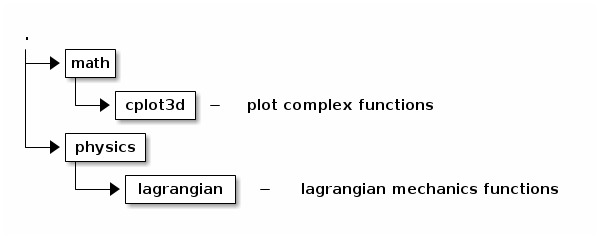
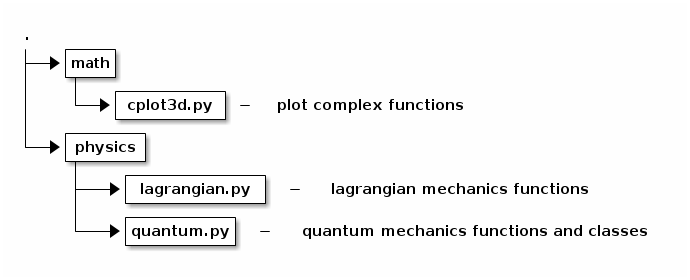
quantum added

Changed region(s): [[0.03, 0.1471, 0.96, 0.9118], [0.39, 0.3529, 0.72, 0.4706], [0.48, 0.6471, 0.87, 0.7059]]

diff --git a/physics/quantum.py b/physics/quantum.py
@@ -1,0 +1,359 @@
+# -*- coding: utf-8 -*-
+"""
+Created on Thu Oct 24 19:56:31 2013
+
+@author: edo
+"""
+
+from sympy import Add, Mul, Pow, S, E, I, sin, cos, exp
+
+from sympy.core.trace import Tr
+from sympy.physics.quantum.anticommutator import AntiCommutator
+from sympy.physics.quantum.commutator import Commutator
+from sympy.physics.quantum.density import Density, entropy, fidelity
+from sympy.physics.quantum.state import Ket, Bra, TimeDepKet, State, KetBase, BraBase, Wavefunction
+from sympy.physics.quantum.qubit import Qubit
+from sympy.physics.quantum.qapply import qapply
+from sympy.physics.quantum.gate import HadamardGate
+from sympy.physics.quantum.represent import represent
+from sympy.physics.quantum.dagger import Dagger
+from sympy.physics.quantum.cartesian import XKet, PxKet, PxOp, XOp
+from sympy.physics.quantum.spin import JzKet, Jz
+from sympy.physics.quantum.innerproduct import InnerProduct
+from sympy.physics.quantum.operator import OuterProduct, Operator, HermitianOperator, UnitaryOperator, DifferentialOperator
+from sympy.physics.quantum.operatorset import operators_to_state
+from sympy.physics.quantum.tensorproduct import TensorProduct
+
+
+
+
+
+class Infix:
+    """
+    Definition of an Infix operator.
+
+    Examples
+    ========
+
+    >>> x = Infix(lambda x,y: x*y)
+    >>> 3 |x| 5
+    15
+    """
+    def __init__(self, function):
+        self.function = function
+    def __ror__(self, other):
+        return Infix(lambda x, self=self, other=other: self.function(other, x))
+    def __or__(self, other):
+        return self.function(other)
+    def __rlshift__(self, other):
+        return Infix(lambda x, self=self, other=other: self.function(other, x))
+    def __rshift__(self, other):
+        return self.function(other)
+    def __call__(self, value1, value2):
+        return self.function(value1, value2)
+
+# Tensor product infix operator for quantum bites
+ox = Infix(TensorProduct)
+
+
+class IdempotentOperator(Operator):
+    """
+    Idempotent operator class.
+
+    Examples
+    ========
+
+    >>> from sympy import *
+    >>> A = symbols('A', cls=IdempotentOperator)
+    >>> A**2
+    A
+    >>> A**100
+    A
+    """
+    is_idempotent = True
+    def _eval_inverse(self):
+        raise ZeroDivisionError('Idempotent matrix has no inverse.')
+
+    def _eval_power(self, exp):
+        if exp < 0:
+            raise ZeroDivisionError('Idempotent matrix has no inverse.')
+        elif exp == 0:
+            return 1
+        else:
+            return self
+        return self
+
+
+def Qperm(n, f, *param):
+    dim = 2**n
+    _Qperm_ = 0
+    param = [""] + list(param)
+    for k in range(dim):
+        bits = ("%0" + str(n) + "d") % int(bin(k)[2:])
+        param[0] = bits        
+        pbits = f(*param)
+        _Qperm_ += OuterProduct(Qubit(bits), Qubit(pbits).dual)
+    return _Qperm_
+
+
+def shift(subject, direction = 1):
+    """
+    Shift 'subject'. 'direction' = 1 right shift, 'direction' = -1 left shift.
+    """
+    if direction == 1:
+        tmp = subject[-1]
+        subject = tmp + subject[:-1]
+    elif direction == -1:
+        tmp = subject[0]
+        subject = subject[1:] + tmp
+    return subject
+
+
+def inter(subject, indexes, direction = 1):
+    """
+    Shift only 'indexes' positions.
+    """
+    indexes.sort()
+    while (indexes[0] < 0):
+        indexes.append(indexes[0])
+        del indexes[0]
+    selection = ""
+    for i in indexes:
+        selection += subject[i]
+    selection = shift(selection, direction)
+    result = subject[:indexes[0]]
+    for i in range(len(indexes)-1):
+        result += selection[i] + subject[indexes[i] + 1:indexes[i+1]]
+    result += selection[-1]
+    if indexes[-1] != -1:
+        result += subject[indexes[-1] + 1:]
+    return result
+
+
+def Qident(n):
+    """
+    Quantum identity operator over 'n' qubits.
+    """
+    dim = 2**n
+    result = 0
+    for i in range(dim):
+        bits = ("%0" + str(n) + "d") % int(bin(i)[2:])
+        result += OuterProduct(Qubit(bits), Qubit(bits).dual)
+    return result
+
+
+def Psym(n):
+    """
+    Quantum symmetric operator over 'n' qubits.
+    """
+    dim = 2**n
+    result = 0
+    for i in range(dim):
+        ibits = ("%0" + str(n) + "d") % int(bin(i)[2:])
+        result += OuterProduct(Qubit(ibits*2), Qubit(ibits*2).dual)
+        for j in range(i):
+            jbits = ("%0" + str(n) + "d") % int(bin(j)[2:])
+            result += OuterProduct(Qubit(ibits+jbits), Qubit(ibits+jbits).dual)/2
+            result += OuterProduct(Qubit(jbits+ibits), Qubit(jbits+ibits).dual)/2
+            result += OuterProduct(Qubit(ibits+jbits), Qubit(jbits+ibits).dual)/2
+            result += OuterProduct(Qubit(jbits+ibits), Qubit(ibits+jbits).dual)/2
+    return result
+
+
+def BlochState(theta, phi):
+    """
+    Quantum bit Bloch representation.
+    """
+    _BlochState_ = cos(theta/2)*exp(I*phi/2)*Qubit('0') + sin(theta/2)*exp(-I*phi/2)*Qubit('1')
+    return _BlochState_
+
+
+
+def Outer2Mul(e, **options):
+    """
+    Expand quantum sympy simplification.
+    """
+    if e == 0:
+        return S.Zero
+
+    # If we just have a raw ket, return it.
+    if isinstance(e, KetBase):
+        return e
+
+    # We have an Add(a, b, c, ...) and compute
+    # Add(qapply(a), qapply(b), ...)
+    elif isinstance(e, Add):
+        result = 0
+        for arg in e.args:
+            result += Outer2Mul(arg, **options)
+        return result
+
+    # For a Density operator call qapply on its state
+    elif isinstance(e, Density):
+        new_args = [(Outer2Mul(state, **options),prob) for (state,prob) in e.args]
+        return Density(*new_args)
+
+    # For a raw TensorProduct, call qapply on its args.
+    elif isinstance(e, TensorProduct):
+        return TensorProduct(*[Outer2Mul(t, **options) for t in e.args])
+
+    # For a Pow, call qapply on its base.
+    elif isinstance(e, Pow):
+        return Outer2Mul(e.base, **options)**e.exp
+
+    # We have a Mul where there might be actual operators to apply to kets.
+    elif isinstance(e, Mul):
+        result = 1
+        for arg in e.args:
+            result *= Outer2Mul(arg, **options)
+        return result
+
+    # Change OuterProduct for Mul
+    elif isinstance(e, OuterProduct):
+        result = Mul(e.ket, e.bra)
+        return result        
+
+    # In all other cases (State, Operator, Pow, Commutator, InnerProduct,
+    # OuterProduct) we won't ever have operators to apply to kets.
+    else:
+        return e
+
+
+
+
+def Mul2Outer(e, **options):
+    """
+    Expand quantum sympy simplification.
+    """
+    if e == 0:
+        return S.Zero
+
+    # If we just have a raw ket, return it.
+    if isinstance(e, KetBase):
+        return e
+
+    # We have an Add(a, b, c, ...) and compute
+    # Add(qapply(a), qapply(b), ...)
+    elif isinstance(e, Add):
+        result = 0
+        for arg in e.args:
+            result += Mul2Outer(arg, **options)
+        return result
+
+    # For a Density operator call qapply on its state
+    elif isinstance(e, Density):
+        new_args = [(Mul2Outer(state, **options),prob) for (state,prob) in e.args]
+        return Density(*new_args)
+
+    # For a raw TensorProduct, call qapply on its args.
+    elif isinstance(e, TensorProduct):
+        return TensorProduct(*[Mul2Outer(t, **options) for t in e.args])
+
+    # For a Pow, call qapply on its base.
+    elif isinstance(e, Pow):
+        return Mul2Outer(e.base, **options)**e.exp
+
+    # Change Mul for OuterProduct
+    elif isinstance(e, Mul):
+        result = 1
+        indexes = []
+        args = list(e.args)
+        for i in range(len(args)-1):
+            if isinstance(args[i], KetBase) and isinstance(args[i+1], BraBase):
+                args[i] = OuterProduct(args[i], args[i+1])
+                indexes.append(i+1)
+        for i in indexes:
+            del args[i]
+        for arg in args:
+            result *= Mul2Outer(arg, **options)
+        return result
+
+    # Process the trace.
+    elif isinstance(e, Tr):
+        new_args = Mul2Outer(e.args[0], **options)
+        return Tr(new_args, e.args[1])
+
+    # In all other cases (State, Operator, Pow, Commutator, InnerProduct,
+    # OuterProduct) we won't ever have operators to apply to kets.
+    else:
+        return e
+
+
+
+
+#####################################
+## Qperm test code
+#
+#####################################
+## Idempotent test code
+#
+#Idem = IdempotentOperator('Idem')
+#print Idem**2
+#print Idem**3
+#print Idem**4
+##print Idem**-1
+#print Idem**0
+#####################################
+## Mul2Outer test code
+#
+#tmp0 = Mul(Qubit('0'),Qubit('1').dual)
+#tmp1 = Mul2Outer(tmp0)
+#tmp2 = Tr(tmp0).doit()
+#tmp3 = Tr(tmp1).doit()
+#tmp4 = Mul2Outer(tmp2).doit()
+#tmp5 = ""
+#tmp0 = Outer2Mul(Psym(2))
+#tmp1 = Tr(tmp0)
+#tmp2 = tmp1.doit()
+#tmp3 = Mul2Outer(tmp2)
+#tmp4 = tmp3.doit()
+#tmp5 = qapply(tmp4)
+#print tmp0
+#print "-----------------------"
+#print tmp1
+#print "-----------------------"
+#print tmp2
+#print "-----------------------"
+#print tmp3
+#print "-----------------------"
+#print tmp4
+#print "-----------------------"
+#print tmp5
+#####################################
+## Outer2Mul test code
+#
+#tmp0 = Psym(2)
+#tmp1 = Outer2Mul(tmp0)
+#tmp2 = tmp1**2
+#tmp3 = qapply(tmp2-tmp1)
+#tmp4 = Outer2Mul(tmp3)
+#tmp5 = qapply(tmp4)
+#print tmp0
+#print "-----------------------"
+#print tmp1
+#print "-----------------------"
+#print tmp2
+#print "-----------------------"
+#print tmp3
+#print "-----------------------"
+#print tmp4
+#print "-----------------------"
+#print tmp5
+#####################################
+## Psym test code
+#
+#print Psym(1)
+#print "-----------------------"
+#print Psym(2)
+#print "-----------------------"
+#print qapply(Psym(1)**2 - Psym(1))
+#print "-----------------------"
+#print represent(Psym(1))
+#####################################
+## BlochState test code
+#
+#from sympy import symbols, simplify
+#x, y = symbols('x y', real=True)
+#a = BlochState(x,y)
+#print qapply(Dagger(a)*a)
+#print simplify(qapply(Dagger(a)*a))
